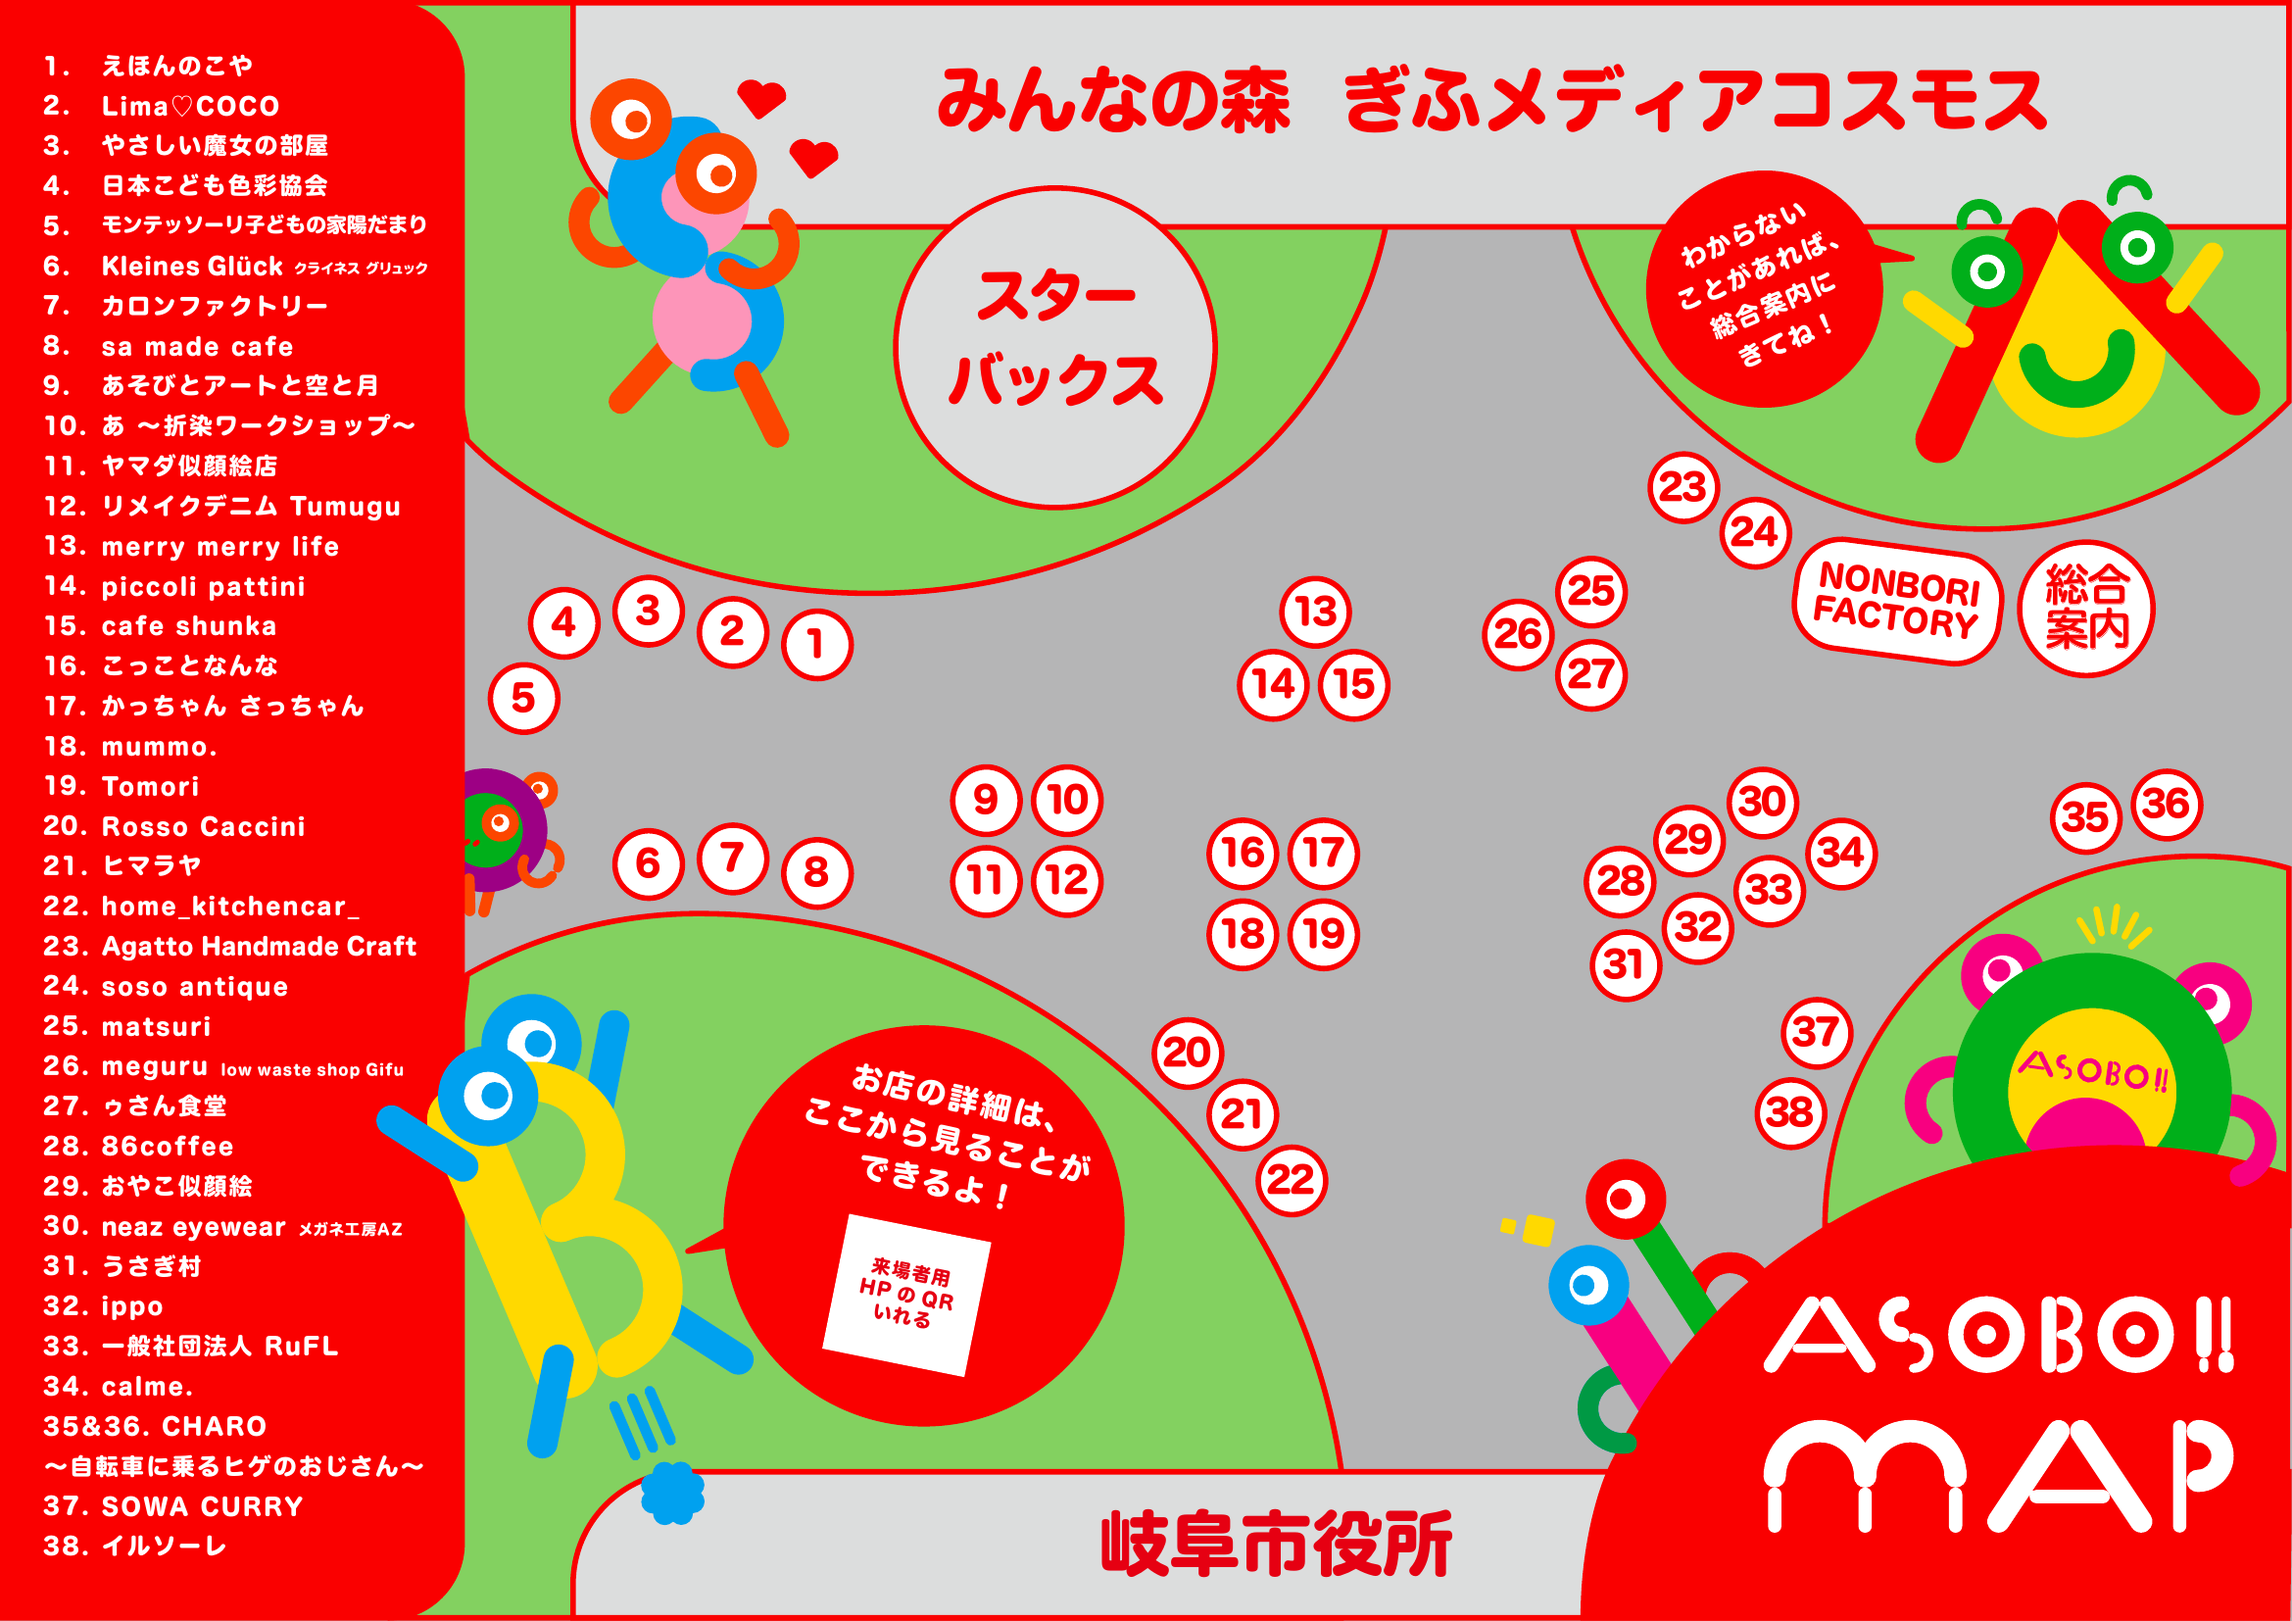
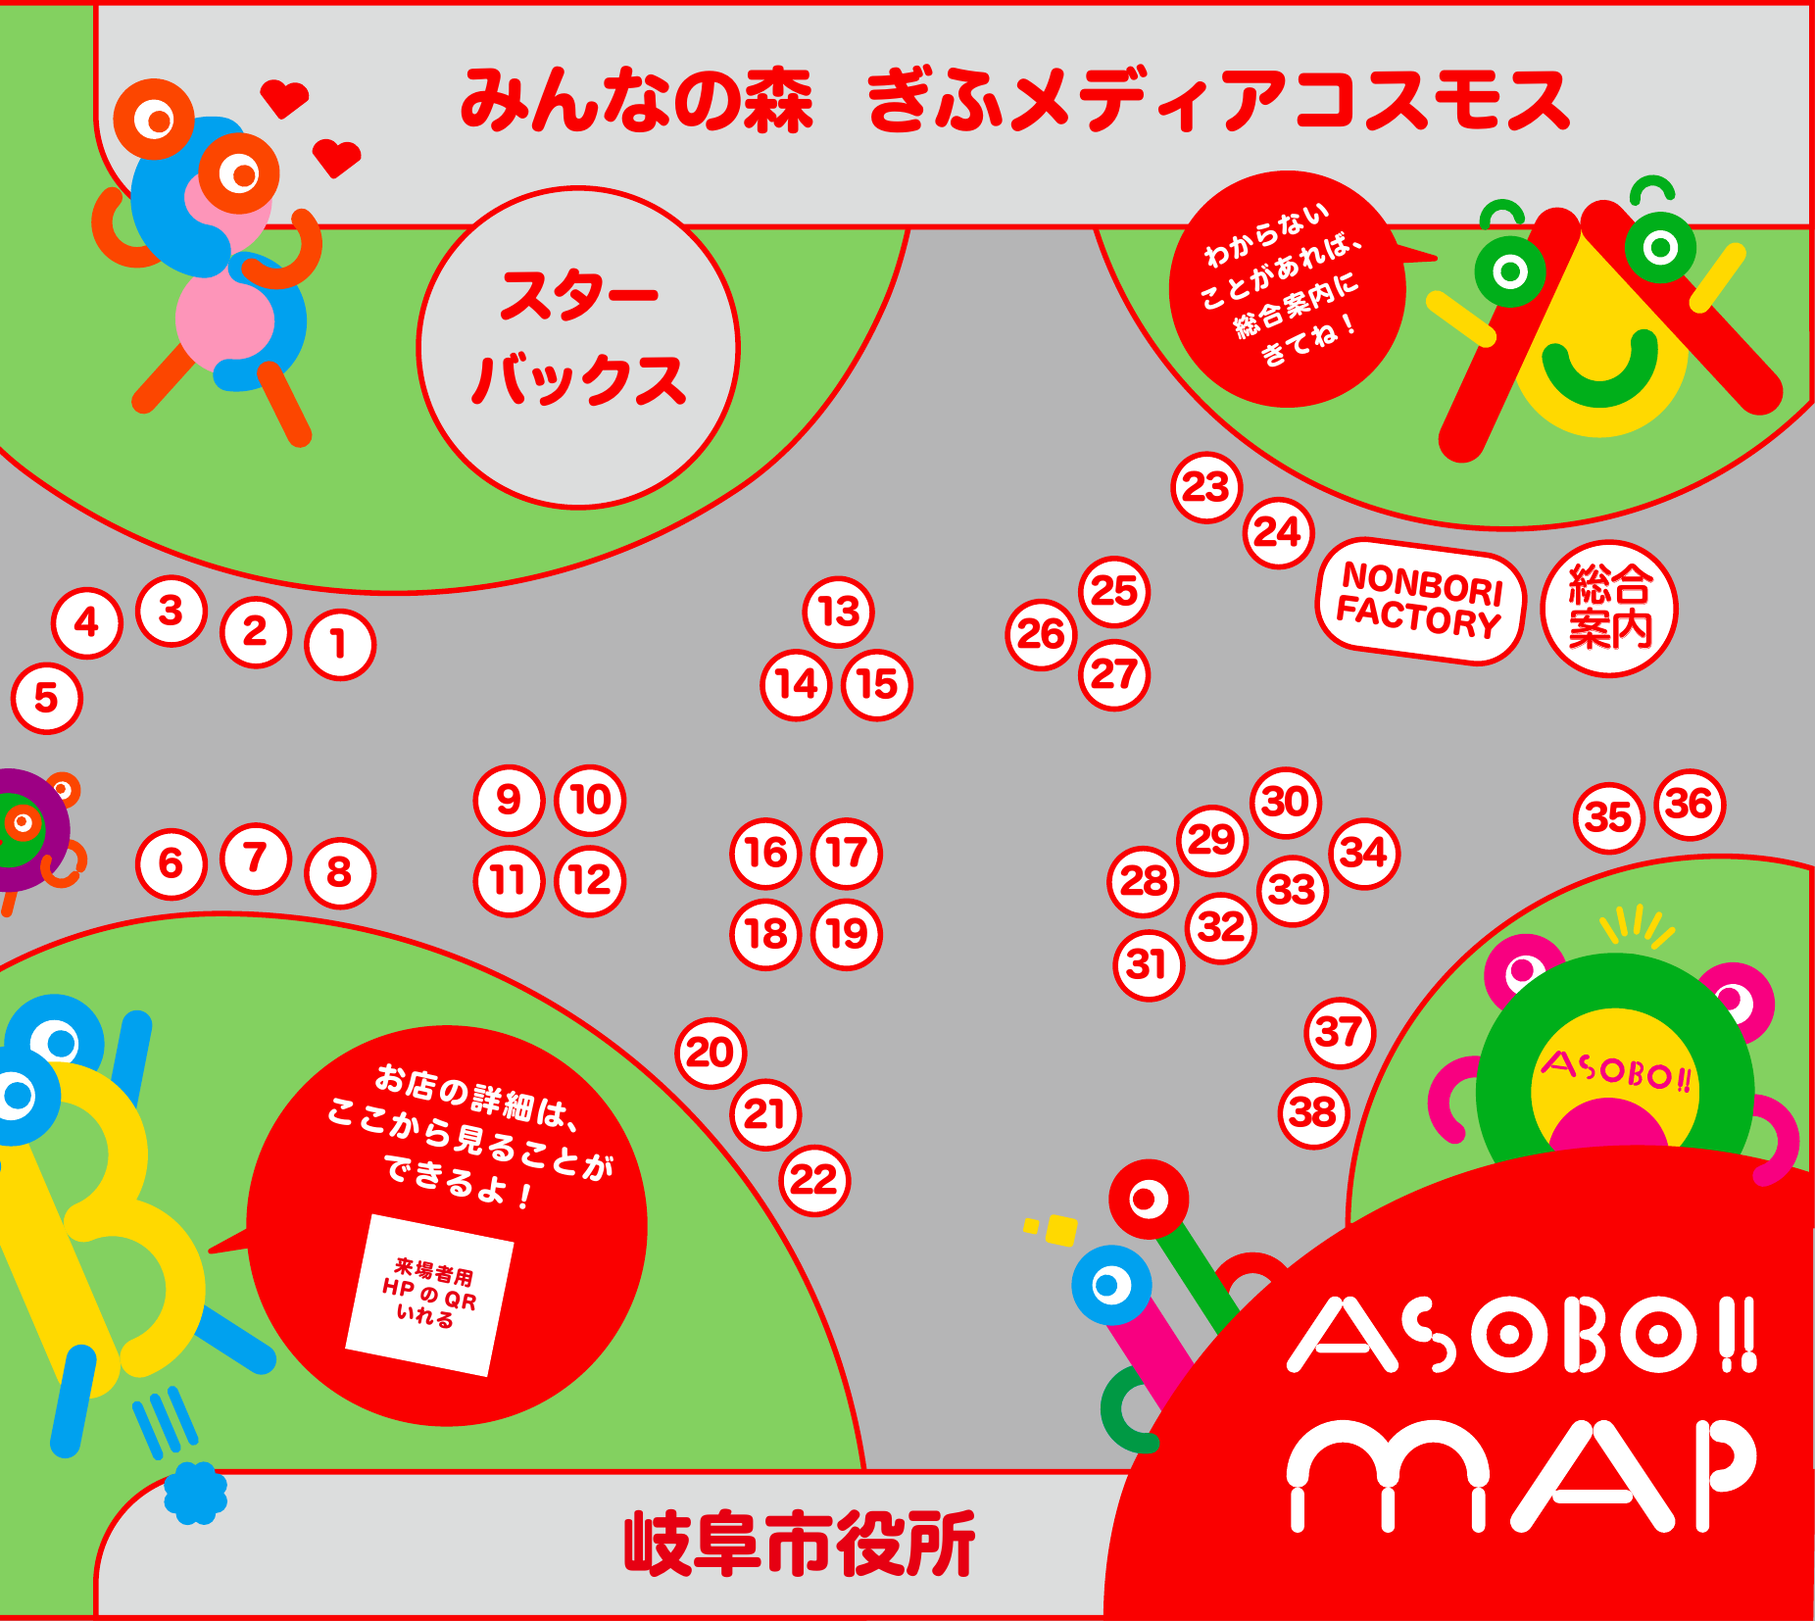
fix: 会場マップから左の出店者一覧パネルを切り取り
一覧はページ側の「出店者・コンテンツ」で見られるため、
マップ画像内の重複した一覧を除去してマップ本体を大きく表示。

- asobo-map.png を左から487px切り取り: 2339x1654 -> 1852x1654 (617KB -> 305KB)
- 縦横比が 1.414 -> 1.120 になり、同じ枠内でマップが約1.26倍の表示サイズに
- ピン38個のx座標を新しい幅に合わせて再計算
- baseH() の縦横比フォールバックを更新

ピン位置は画像解析で再検証済み（38個すべて通過 / 最大ズレ0.37px）

Claude-Session: https://claude.ai/code/session_01UjFhsqrywCfpy14FVUrrUw

diff --git a/events/asobo/visit/index.html b/events/asobo/visit/index.html
@@ -1160,44 +1160,44 @@ p.organizer-label {
       img   : 店舗画像のパス（入れるとサムネイルが写真に変わる）
    ========================================================= */
 const SHOPS = [
-  { no: 1,  pins: [{ n: 1,  x: 35.64, y: 39.78 }], name: 'えほんのこや',                     cat: 'ワークショップ', insta: ['ehonnokoya', '__58.okashi'], img: 'shops/01.jpg' },
-  { no: 2,  pins: [{ n: 2,  x: 31.97, y: 39.06 }], name: 'Lima♡COCO',                       cat: 'ワークショップ', insta: ['takachan823'] },
-  { no: 3,  pins: [{ n: 3,  x: 28.21, y: 37.73 }], name: 'やさしい魔女の部屋',               cat: null,             insta: [], img: 'shops/03.jpg' },
-  { no: 4,  pins: [{ n: 4,  x: 24.53, y: 38.45 }], name: '日本こども色彩協会',               cat: 'ワークショップ', insta: ['iroha.kirakira', 't_yuri81'], img: 'shops/04.jpg' },
-  { no: 5,  pins: [{ n: 5,  x: 22.82, y: 43.05 }], name: 'モンテッソーリ子どもの家陽だまり', cat: 'ワークショップ', insta: ['maria_monte_inuyama'] },
-  { no: 6,  pins: [{ n: 6,  x: 28.29, y: 53.32 }], name: 'Kleines Glück（クライネス グリュック）', cat: '物販',    insta: ['kleinesgluck.aa'], img: 'shops/06.jpg' },
-  { no: 7,  pins: [{ n: 7,  x: 31.97, y: 52.96 }], name: 'カロンファクトリー',               cat: 'キッチンカー',   insta: ['calon_factory_foodtruck.new'], img: 'shops/07.jpg' },
-  { no: 8,  pins: [{ n: 8,  x: 35.64, y: 53.93 }], name: 'sa made cafe',                     cat: 'キッチンカー',   insta: ['samadecafe.new'] },
-  { no: 9,  pins: [{ n: 9,  x: 42.99, y: 49.33 }], name: 'あそびとアートと空と月',           cat: 'ワークショップ', insta: ['asobi.art.soratotsuki'], img: 'shops/09.jpg' },
-  { no: 10, pins: [{ n: 10, x: 46.41, y: 49.46 }], name: 'あ 〜折染ワークショップ〜',         cat: 'ワークショップ', insta: ['someworks.a'], img: 'shops/10.jpg' },
-  { no: 11, pins: [{ n: 11, x: 42.99, y: 54.41 }], name: 'ヤマダ似顔絵店',                   cat: '物販',           insta: ['yamada_takae'], img: 'shops/11.jpg' },
-  { no: 12, pins: [{ n: 12, x: 46.50, y: 54.41 }], name: 'リメイクデニム Tumugu',            cat: 'ワークショップ', insta: ['tumugu.0'], img: 'shops/12.jpg' },
-  { no: 13, pins: [{ n: 13, x: 57.26, y: 37.85 }], name: 'merry merry life',                 cat: '物販',           insta: ['merry.merry.life'], img: 'shops/13.jpg' },
-  { no: 14, pins: [{ n: 14, x: 55.47, y: 42.32 }], name: 'piccoli pattini',                  cat: 'ワークショップ', insta: ['piccoli.pattini'], img: 'shops/14.jpg' },
-  { no: 15, pins: [{ n: 15, x: 58.97, y: 42.32 }], name: 'cafe shunka',                      cat: '物販',           insta: ['cafe_shunka'], img: 'shops/15.jpg' },
-  { no: 16, pins: [{ n: 16, x: 54.10, y: 52.72 }], name: 'こっことなんな',                   cat: '物販',           insta: ['koala_to_cat'], img: 'shops/16.jpg' },
-  { no: 17, pins: [{ n: 17, x: 57.69, y: 52.72 }], name: 'かっちゃん さっちゃん',            cat: '物販',           insta: [] },
-  { no: 18, pins: [{ n: 18, x: 54.10, y: 57.68 }], name: 'mummo.',                           cat: '物販',           insta: ['_mummo._'], img: 'shops/18.jpg' },
-  { no: 19, pins: [{ n: 19, x: 57.61, y: 57.68 }], name: 'Tomori',                           cat: '物販',           insta: ['tomori_curry'], img: 'shops/19.jpg' },
-  { no: 20, pins: [{ n: 20, x: 51.79, y: 65.05 }], name: 'Rosso Caccini',                    cat: 'キッチンカー',   insta: ['pizza_prc'], img: 'shops/20.jpg' },
-  { no: 21, pins: [{ n: 21, x: 54.19, y: 68.80 }], name: 'ヒマラヤ',                         cat: 'キッチンカー',   insta: [] },
-  { no: 22, pins: [{ n: 22, x: 56.32, y: 72.91 }], name: 'home_kitchencar_',                 cat: 'キッチンカー',   insta: ['home_kitchencar_'] },
-  { no: 23, pins: [{ n: 23, x: 73.42, y: 30.11 }], name: 'Agatto Handmade Craft',            cat: null,             insta: [] },
-  { no: 24, pins: [{ n: 24, x: 76.58, y: 32.89 }], name: 'soso antique',                     cat: null,             insta: [] },
-  { no: 25, pins: [{ n: 25, x: 69.32, y: 36.52 }], name: 'matsuri',                          cat: '物販',           insta: ['matsuri1881'] },
-  { no: 26, pins: [{ n: 26, x: 66.15, y: 39.18 }], name: 'meguru（low waste shop Gifu）',    cat: '物販',           insta: ['meguru_gifu'], img: 'shops/26.jpg' },
-  { no: 27, pins: [{ n: 27, x: 69.40, y: 41.72 }], name: 'ゥさん食堂',                       cat: '物販',           insta: ['usansyokudo'], img: 'shops/27.jpg' },
-  { no: 28, pins: [{ n: 28, x: 70.60, y: 54.41 }], name: '86coffee',                         cat: 'キッチンカー',   insta: ['86coffee__'], img: 'shops/28.jpg' },
-  { no: 29, pins: [{ n: 29, x: 73.68, y: 51.87 }], name: 'おやこ似顔絵',                     cat: '物販',           insta: ['kyoko06061963'] },
-  { no: 30, pins: [{ n: 30, x: 76.84, y: 49.58 }], name: 'neaz eyewear（メガネ工房AZ）',     cat: '物販',           insta: ['meganekoubouaz'], img: 'shops/30.jpg' },
-  { no: 31, pins: [{ n: 31, x: 70.94, y: 59.61 }], name: 'うさぎ村',                         cat: '物販',           insta: ['usagimura2021'], img: 'shops/31.jpg' },
-  { no: 32, pins: [{ n: 32, x: 73.93, y: 57.32 }], name: 'ippo',                             cat: 'ワークショップ', insta: ['ippo_official_balloon'], img: 'shops/32.jpg' },
-  { no: 33, pins: [{ n: 33, x: 77.18, y: 55.02 }], name: '一般社団法人 RuFL',                cat: '物販',           insta: ['rufl_japan'], img: 'shops/33.jpg' },
-  { no: 34, pins: [{ n: 34, x: 80.26, y: 52.72 }], name: 'calme.',                           cat: '物販',           insta: ['calme.329'], img: 'shops/34.jpg' },
-  { no: '35&36', pins: [{ n: 35, x: 90.94, y: 50.54 }, { n: 36, x: 94.44, y: 49.70 }],
+  { no: 1,  pins: [{ n: 1,  x: 18.72, y: 39.78 }], name: 'えほんのこや',                     cat: 'ワークショップ', insta: ['ehonnokoya', '__58.okashi'], img: 'shops/01.jpg' },
+  { no: 2,  pins: [{ n: 2,  x: 14.08, y: 39.06 }], name: 'Lima♡COCO',                       cat: 'ワークショップ', insta: ['takachan823'] },
+  { no: 3,  pins: [{ n: 3,  x: 9.33, y: 37.73 }], name: 'やさしい魔女の部屋',               cat: null,             insta: [], img: 'shops/03.jpg' },
+  { no: 4,  pins: [{ n: 4,  x: 4.68, y: 38.45 }], name: '日本こども色彩協会',               cat: 'ワークショップ', insta: ['iroha.kirakira', 't_yuri81'], img: 'shops/04.jpg' },
+  { no: 5,  pins: [{ n: 5,  x: 2.52, y: 43.05 }], name: 'モンテッソーリ子どもの家陽だまり', cat: 'ワークショップ', insta: ['maria_monte_inuyama'] },
+  { no: 6,  pins: [{ n: 6,  x: 9.43, y: 53.32 }], name: 'Kleines Glück（クライネス グリュック）', cat: '物販',    insta: ['kleinesgluck.aa'], img: 'shops/06.jpg' },
+  { no: 7,  pins: [{ n: 7,  x: 14.08, y: 52.96 }], name: 'カロンファクトリー',               cat: 'キッチンカー',   insta: ['calon_factory_foodtruck.new'], img: 'shops/07.jpg' },
+  { no: 8,  pins: [{ n: 8,  x: 18.72, y: 53.93 }], name: 'sa made cafe',                     cat: 'キッチンカー',   insta: ['samadecafe.new'] },
+  { no: 9,  pins: [{ n: 9,  x: 28.00, y: 49.33 }], name: 'あそびとアートと空と月',           cat: 'ワークショップ', insta: ['asobi.art.soratotsuki'], img: 'shops/09.jpg' },
+  { no: 10, pins: [{ n: 10, x: 32.32, y: 49.46 }], name: 'あ 〜折染ワークショップ〜',         cat: 'ワークショップ', insta: ['someworks.a'], img: 'shops/10.jpg' },
+  { no: 11, pins: [{ n: 11, x: 28.00, y: 54.41 }], name: 'ヤマダ似顔絵店',                   cat: '物販',           insta: ['yamada_takae'], img: 'shops/11.jpg' },
+  { no: 12, pins: [{ n: 12, x: 32.43, y: 54.41 }], name: 'リメイクデニム Tumugu',            cat: 'ワークショップ', insta: ['tumugu.0'], img: 'shops/12.jpg' },
+  { no: 13, pins: [{ n: 13, x: 46.02, y: 37.85 }], name: 'merry merry life',                 cat: '物販',           insta: ['merry.merry.life'], img: 'shops/13.jpg' },
+  { no: 14, pins: [{ n: 14, x: 43.76, y: 42.32 }], name: 'piccoli pattini',                  cat: 'ワークショップ', insta: ['piccoli.pattini'], img: 'shops/14.jpg' },
+  { no: 15, pins: [{ n: 15, x: 48.18, y: 42.32 }], name: 'cafe shunka',                      cat: '物販',           insta: ['cafe_shunka'], img: 'shops/15.jpg' },
+  { no: 16, pins: [{ n: 16, x: 42.03, y: 52.72 }], name: 'こっことなんな',                   cat: '物販',           insta: ['koala_to_cat'], img: 'shops/16.jpg' },
+  { no: 17, pins: [{ n: 17, x: 46.56, y: 52.72 }], name: 'かっちゃん さっちゃん',            cat: '物販',           insta: [] },
+  { no: 18, pins: [{ n: 18, x: 42.03, y: 57.68 }], name: 'mummo.',                           cat: '物販',           insta: ['_mummo._'], img: 'shops/18.jpg' },
+  { no: 19, pins: [{ n: 19, x: 46.46, y: 57.68 }], name: 'Tomori',                           cat: '物販',           insta: ['tomori_curry'], img: 'shops/19.jpg' },
+  { no: 20, pins: [{ n: 20, x: 39.11, y: 65.05 }], name: 'Rosso Caccini',                    cat: 'キッチンカー',   insta: ['pizza_prc'], img: 'shops/20.jpg' },
+  { no: 21, pins: [{ n: 21, x: 42.14, y: 68.80 }], name: 'ヒマラヤ',                         cat: 'キッチンカー',   insta: [] },
+  { no: 22, pins: [{ n: 22, x: 44.83, y: 72.91 }], name: 'home_kitchencar_',                 cat: 'キッチンカー',   insta: ['home_kitchencar_'] },
+  { no: 23, pins: [{ n: 23, x: 66.43, y: 30.11 }], name: 'Agatto Handmade Craft',            cat: null,             insta: [] },
+  { no: 24, pins: [{ n: 24, x: 70.42, y: 32.89 }], name: 'soso antique',                     cat: null,             insta: [] },
+  { no: 25, pins: [{ n: 25, x: 61.25, y: 36.52 }], name: 'matsuri',                          cat: '物販',           insta: ['matsuri1881'] },
+  { no: 26, pins: [{ n: 26, x: 57.25, y: 39.18 }], name: 'meguru（low waste shop Gifu）',    cat: '物販',           insta: ['meguru_gifu'], img: 'shops/26.jpg' },
+  { no: 27, pins: [{ n: 27, x: 61.35, y: 41.72 }], name: 'ゥさん食堂',                       cat: '物販',           insta: ['usansyokudo'], img: 'shops/27.jpg' },
+  { no: 28, pins: [{ n: 28, x: 62.87, y: 54.41 }], name: '86coffee',                         cat: 'キッチンカー',   insta: ['86coffee__'], img: 'shops/28.jpg' },
+  { no: 29, pins: [{ n: 29, x: 66.76, y: 51.87 }], name: 'おやこ似顔絵',                     cat: '物販',           insta: ['kyoko06061963'] },
+  { no: 30, pins: [{ n: 30, x: 70.75, y: 49.58 }], name: 'neaz eyewear（メガネ工房AZ）',     cat: '物販',           insta: ['meganekoubouaz'], img: 'shops/30.jpg' },
+  { no: 31, pins: [{ n: 31, x: 63.30, y: 59.61 }], name: 'うさぎ村',                         cat: '物販',           insta: ['usagimura2021'], img: 'shops/31.jpg' },
+  { no: 32, pins: [{ n: 32, x: 67.07, y: 57.32 }], name: 'ippo',                             cat: 'ワークショップ', insta: ['ippo_official_balloon'], img: 'shops/32.jpg' },
+  { no: 33, pins: [{ n: 33, x: 71.18, y: 55.02 }], name: '一般社団法人 RuFL',                cat: '物販',           insta: ['rufl_japan'], img: 'shops/33.jpg' },
+  { no: 34, pins: [{ n: 34, x: 75.07, y: 52.72 }], name: 'calme.',                           cat: '物販',           insta: ['calme.329'], img: 'shops/34.jpg' },
+  { no: '35&36', pins: [{ n: 35, x: 88.56, y: 50.54 }, { n: 36, x: 92.98, y: 49.70 }],
                                                    name: 'CHARO 〜自転車に乗るヒゲのおじさん〜', cat: 'ワークショップ', insta: ['cheki_charo3939'] },
-  { no: 37, pins: [{ n: 37, x: 79.23, y: 63.85 }], name: 'SOWA CURRY',                       cat: 'キッチンカー',   insta: ['sowacurry116'], img: 'shops/37.jpg' },
-  { no: 38, pins: [{ n: 38, x: 78.03, y: 68.68 }], name: 'イルソーレ',                       cat: 'キッチンカー',   insta: ['ilsole_wizard.of.flour'], img: 'shops/38.jpg' }
+  { no: 37, pins: [{ n: 37, x: 73.77, y: 63.85 }], name: 'SOWA CURRY',                       cat: 'キッチンカー',   insta: ['sowacurry116'], img: 'shops/37.jpg' },
+  { no: 38, pins: [{ n: 38, x: 72.25, y: 68.68 }], name: 'イルソーレ',                       cat: 'キッチンカー',   insta: ['ilsole_wizard.of.flour'], img: 'shops/38.jpg' }
 ];
 
 const CATS = [
@@ -1295,7 +1295,7 @@ const mapApi = (() => {
   }
 
   /* --- 拡大・移動 --- */
-  function baseH() { return img.offsetHeight || view.clientWidth / 1.4142; }
+  function baseH() { return img.offsetHeight || view.clientWidth / 1.1197; }
 
   function apply() {
     const vw = view.clientWidth, vh = view.clientHeight;
